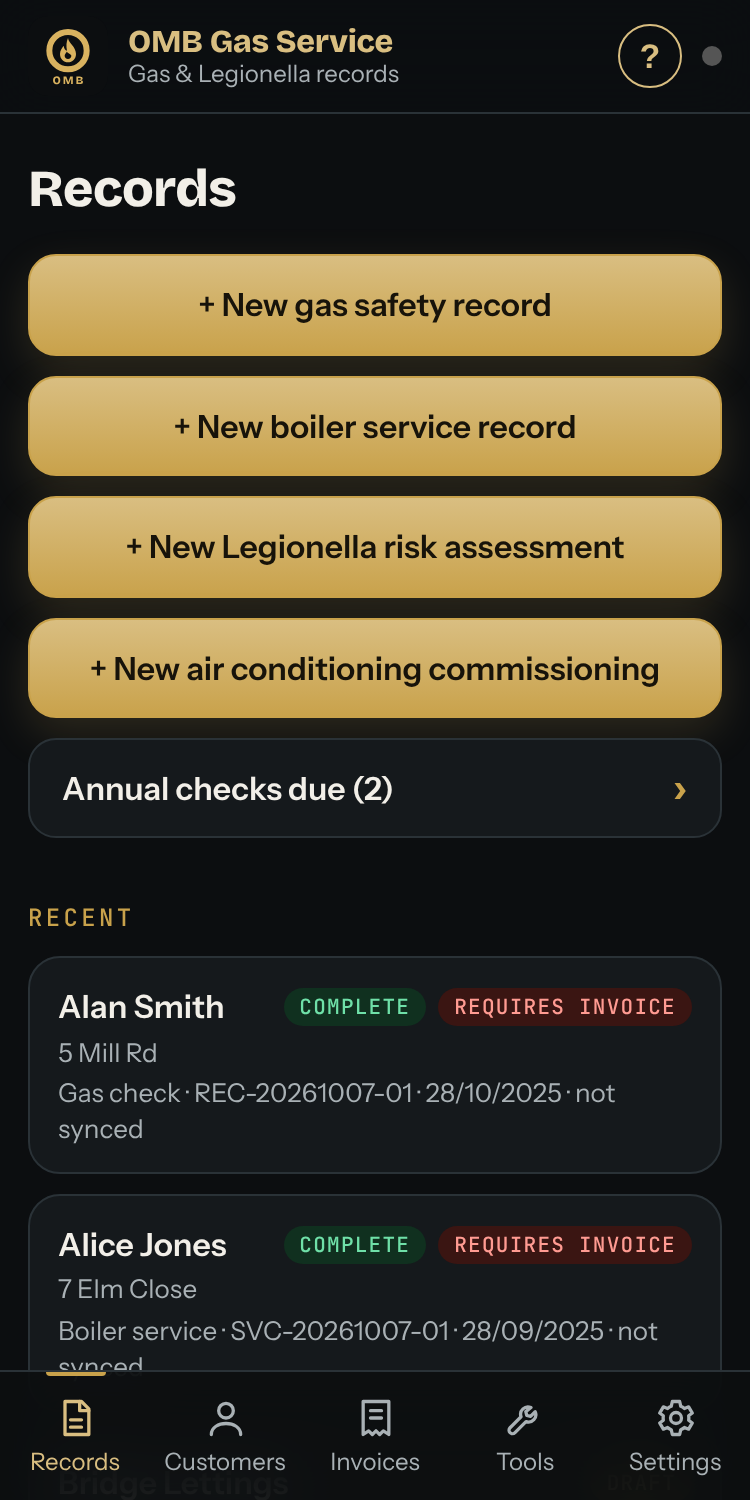
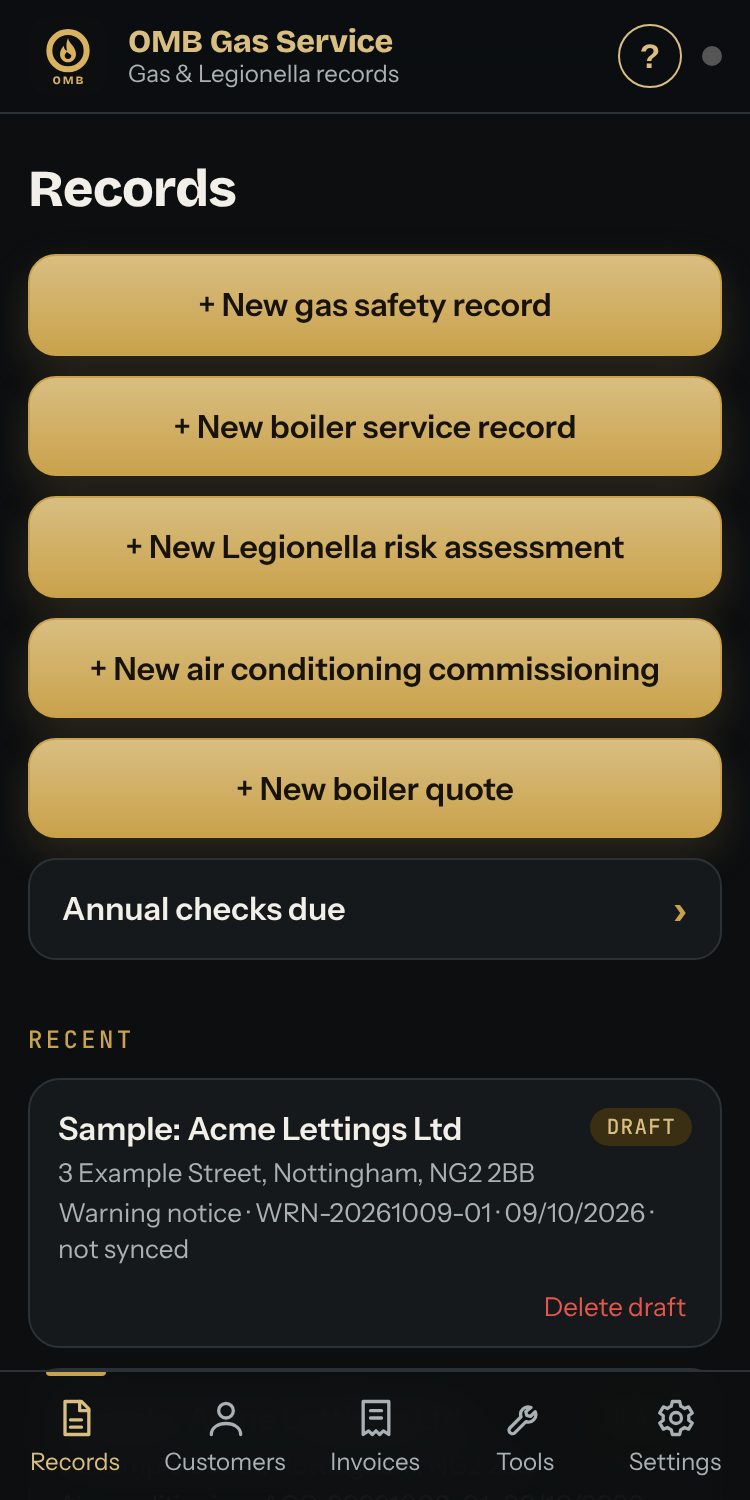
Site: boiler quotes, price list, quick heat loss, new screenshots and FAQ
Claude-Session: https://claude.ai/code/session_0178TbPUaNMd9U8tCb7q57PP

Changed region(s): [[0.0307, 0.4907, 0.9813, 0.92], [0.9507, 0.7053, 0.9813, 0.736]]

diff --git a/index.html b/index.html
@@ -4,10 +4,10 @@
 <meta charset="utf-8">
 <meta name="viewport" content="width=device-width, initial-scale=1">
 <title>OMB Gas Service – certificates and invoices for plumbers and heating engineers</title>
-<meta name="description" content="A no-nonsense app for plumbers and heating engineers. Gas safety records, boiler services, Legionella and air con forms, built-in calculators including the new IGEM/UP/1B tightness test, and simple invoices, with your own logo. £15 a month, 14-day free trial.">
+<meta name="description" content="A no-nonsense app for plumbers and heating engineers. Gas safety records, boiler services, Legionella and air con forms, boiler quotes, built-in calculators including the new IGEM/UP/1B tightness test, and simple invoices, with your own logo. £15 a month, 14-day free trial.">
 <meta property="og:type" content="website">
 <meta property="og:title" content="OMB Gas Service – certificates and invoices for plumbers and heating engineers">
-<meta property="og:description" content="Gas safety records, boiler services, Legionella and air con forms, built-in calculators including the new IGEM/UP/1B tightness test, and simple invoices, with your own logo. £15 a month, 14-day free trial.">
+<meta property="og:description" content="Gas safety records, boiler services, Legionella and air con forms, boiler quotes, built-in calculators including the new IGEM/UP/1B tightness test, and simple invoices, with your own logo. £15 a month, 14-day free trial.">
 <meta property="og:url" content="https://ombgas.com/">
 <link rel="canonical" href="https://ombgas.com/">
 <meta name="theme-color" content="#0c0e10">
@@ -39,7 +39,7 @@
     <div>
       <p class="pill"><i aria-hidden="true"></i>Works offline, in the van, with no signal</p>
       <h1>Certificates and invoices. <span class="gold">Nothing else in the way.</span></h1>
-      <p class="lead">A no-nonsense app for plumbers and heating engineers. It produces the right forms, does the sums, and sends simple invoices from your phone.</p>
+      <p class="lead">A no-nonsense app for plumbers and heating engineers. It produces the right forms, does the sums, quotes new boilers and sends simple invoices from your phone.</p>
       <div class="cta">
         <a class="btn" href="https://app.ombgas.com/">Start your 14-day free trial</a>
         <a class="btn alt" href="#forms">See what it does</a>
@@ -65,6 +65,7 @@
       <figure><a class="thumb" href="img/form-gas.png" aria-label="View the gas safety record full size"><img src="img/form-gas.png" width="1521" height="1075" alt="A gas safety record PDF"></a><figcaption>Gas safety record</figcaption></figure>
       <figure><a class="thumb" href="img/form-service.png" aria-label="View the boiler service record full size"><img src="img/form-service.png" width="1075" height="1521" alt="A boiler service record PDF"></a><figcaption>Boiler service record</figcaption></figure>
       <figure><a class="thumb" href="img/form-inv.png" aria-label="View the invoice full size"><img src="img/form-inv.png" width="1075" height="1064" alt="An invoice PDF"></a><figcaption>Invoice</figcaption></figure>
+      <figure><a class="thumb" href="img/form-quote.png" aria-label="View the boiler quote cover full size"><img src="img/form-quote.png" width="1075" height="1521" alt="The cover of a boiler quote proposal with a warranty seal"></a><figcaption>Boiler quote</figcaption></figure>
     </div>
     <p class="sheetnote">The business and customer shown are made up.</p>
   </div>
@@ -82,6 +83,7 @@
       <li class="spot"><span class="tick" aria-hidden="true"></span><div><b>Boiler service record</b><span>Service or repair of a gas boiler, with flue gas analyser readings.</span></div></li>
       <li class="spot"><span class="tick" aria-hidden="true"></span><div><b>Legionella risk assessment</b><span>Hot and cold water system checks.</span></div></li>
       <li class="spot"><span class="tick" aria-hidden="true"></span><div><b>Air conditioning commissioning</b><span>Install and commissioning report.</span></div></li>
+      <li class="spot"><span class="tick" aria-hidden="true"></span><div><b>Boiler quote</b><span>A proper proposal for the customer, with the warranty up front. Three pages.</span></div></li>
       <li class="spot"><span class="tick" aria-hidden="true"></span><div><b>Warning notice</b><span>Filled in on the spot when a defect needs one.</span></div></li>
     </ul>
   </div>
@@ -95,7 +97,7 @@
     <div class="toolgrid rv">
       <div class="tool spot"><h3>Gas rate</h3><p>Time the meter in metric or imperial. Start the timer before you have any readings, then get the gas rate and the gross and net heat input to check against the data plate.</p></div>
       <div class="tool spot"><h3>Gas pipe sizing</h3><p>Worked out from the published BS 6891 copper pipe capacity table. It also shows how many metres of the bigger pipe you need nearest the meter before the run can drop a size.</p></div>
-      <div class="tool spot"><h3>Heat loss and radiators</h3><p>Go room by room. Radiator sizes change with your flow and return temperatures, so the numbers match the system you are fitting.</p></div>
+      <div class="tool spot"><h3>Heat loss and radiators</h3><p>Go room by room with a quick form: room type, size, sheltered or exposed, and window type. You get a range from well insulated to poorly insulated, and radiator sizes that match the heating system you are fitting.</p></div>
       <div class="tool spot hot"><span class="tag">New for October 2026</span><h3>Tightness test volume</h3><p>Works out the installation volume and the pressure drop allowed under the IGEM/UP/1B Edition 4 rules that start on 1 October 2026.</p></div>
     </div>
     <ul class="chips rv">
@@ -126,6 +128,8 @@
     <h2 class="rv">Built for the van, not the office</h2>
     <div class="points rv">
       <div><h3>Annual checks due</h3><p>A list of gas safety checks, boiler services and Legionella assessments coming up or overdue. Tap Text, WhatsApp or Email and a ready-written reminder opens on your phone. Nothing is sent until you press send. Mark each one Booked in, Not needed or Stop.</p></div>
+      <div><h3>Boiler quotes that win the job</h3><p>Pick the boiler, flue and extras from your own price list and send a three-page proposal with your logo and the manufacturer warranty on the front. Choose large text for older customers. Mark it Accepted or Declined, and it reminds you to chase after two weeks.</p></div>
+      <div><h3>Your price list</h3><p>Boilers, flue kits, copper, fittings, thermostats and labour, each with your cost and mark-up. The sale price works itself out, and you can see your profit on every quote. Fill it in on your phone or load it from an Excel sheet. Customers never see your costs.</p></div>
       <div><h3>Simple invoices</h3><p>Make one from a finished job with your standard prices already in. Type a client name and pick them from your saved customers. Add VAT if you charge it, stamp it PAID, and print the bank details on it. Send the PDF, or mark a job as needing no invoice. At each VAT quarter, print a summary for your accountant.</p></div>
       <div><h3>Fault photos</h3><p>Take a photo of the faulty part on any form. It goes on its own page in the PDF with the fault details underneath, in the same style as the rest.</p></div>
       <div><h3>Your name on everything</h3><p>Add your logo and business details once. They appear in the app and on every PDF, so the paperwork looks like yours.</p></div>
@@ -144,6 +148,8 @@
     <h2 class="rv">What it looks like</h2>
     <div class="shots rv">
       <figure class="shot"><div class="phone"><img src="img/shot-1.png" width="750" height="1500" alt="The home screen with buttons for each form and Annual checks due"></div><figcaption>Pick the job. Start the forms.</figcaption></figure>
+      <figure class="shot"><div class="phone"><img src="img/shot-8.png" width="750" height="1500" alt="Finding a boiler on a quote by make and model, with the sale price from your price list"></div><figcaption>Quote a boiler in a minute.</figcaption></figure>
+      <figure class="shot"><div class="phone"><img src="img/shot-7.png" width="750" height="1500" alt="The price list with cost, mark-up and sale price for each boiler"></div><figcaption>Your costs, your mark-up, your price.</figcaption></figure>
       <figure class="shot"><div class="phone"><img src="img/shot-5.png" width="750" height="1500" alt="The Annual checks due list with Text, WhatsApp and Email buttons"></div><figcaption>See who is due. Send the reminder.</figcaption></figure>
       <figure class="shot"><div class="phone"><img src="img/shot-6.png" width="750" height="1500" alt="The Tools list: gas rate, pipe sizing, tightness test volume and heat loss"></div><figcaption>Every calculator in one place.</figcaption></figure>
       <figure class="shot"><div class="phone"><img src="img/shot-2.png" width="750" height="1500" alt="The gas rate calculator showing gas rate and gross and net heat input"></div><figcaption>Time the meter. Get the heat input.</figcaption></figure>
@@ -160,7 +166,7 @@
       <div>
         <ul>
           <li>14 days free to try it</li>
-          <li>Every form, calculator and invoice feature</li>
+          <li>Every form, quote, calculator and invoice feature</li>
           <li>Your own logo and details on all your PDFs</li>
           <li>Cancel any time from Settings</li>
         </ul>
@@ -175,7 +181,8 @@
     <p class="eyebrow rv">FAQ</p>
     <h2 class="rv">Questions</h2>
     <details><summary>What does OMB stand for?</summary><p>One Man Band. It is built for engineers working on their own, with no office staff to do the admin. You do the job, the paperwork and the invoice yourself, so the app keeps that part quick.</p></details>
-    <details><summary>Do I need a signal?</summary><p>No. The forms, calculators and invoices all work offline. Your work syncs to your account when you are back online.</p></details>
+    <details><summary>Can it do quotes?</summary><p>Yes. Pick the customer, then the boiler, flue and extras from your own price list. It produces a three-page proposal with your logo, the manufacturer warranty on the front, and a price your customer can accept by replying to your email. You can mark each quote Accepted or Declined, and it prompts you to chase any that have had no answer after two weeks.</p></details>
+    <details><summary>Do I need a signal?</summary><p>No. The forms, quotes, calculators and invoices all work offline. Your work syncs to your account when you are back online.</p></details>
     <details><summary>What phone do I need?</summary><p>Any iPhone or Android phone with a normal browser. Open the app, choose “Add to Home Screen”, and it opens full screen like any other app.</p></details>
     <details><summary>Can the app remind my customers when their check is due?</summary><p>Yes. Turn on automatic emails in Settings and customers with an email address are emailed about 8 weeks and 2 weeks before. You can switch it off for any customer, and anyone can unsubscribe from the email. The Annual checks due list shows who has been sent a reminder, and gives you ready-written texts and WhatsApps for the rest.</p></details>
     <details><summary>Can I use it on an iPad?</summary><p>Yes. It runs in the iPad’s browser the same way it does on a phone. The first time, the iPad needs an internet connection to load the app and sign in, either Wi-Fi or tethered to your phone’s hotspot. An iPad with its own SIM card works just like a phone. After that it works offline like it does on your phone.</p></details>

diff --git a/style.css b/style.css
@@ -62,14 +62,14 @@ section.s{padding:88px 0;border-top:1px solid var(--line)}
 
 /* paperwork thumbnails */
 .thumbhead{margin:0 0 6px}
-.thumbs{display:grid;grid-template-columns:repeat(3,1fr);gap:20px;align-items:start;margin-top:28px}
+.thumbs{display:grid;grid-template-columns:repeat(4,1fr);gap:20px;align-items:start;margin-top:28px}
 .thumbs figure{margin:0}
 .thumb{display:block;height:300px;border:1px solid var(--line2);background:#fff;border-radius:14px;overflow:hidden;cursor:zoom-in;transition:transform .2s,border-color .2s,box-shadow .2s}
 .thumb img{width:100%;height:100%;object-fit:cover;object-position:top left;display:block}
 .thumb:hover,.thumb:focus-visible{transform:translateY(-4px);border-color:var(--gold);box-shadow:0 18px 40px rgba(0,0,0,.5)}
 .thumbs figcaption{font-weight:600;font-size:15px;margin-top:12px}
 .sheetnote{font-size:14px;color:var(--mute);margin:18px 0 0}
-@media(max-width:700px){.thumbs{grid-template-columns:1fr 1fr 1fr;gap:10px}.thumb{height:170px;border-radius:10px}.thumbs figcaption{font-size:13px}}
+@media(max-width:700px){.thumbs{grid-template-columns:1fr 1fr;gap:14px}.thumb{height:230px;border-radius:10px}.thumbs figcaption{font-size:13px}}
 dialog#viewer{border:1px solid var(--line2);padding:0;background:#fff;max-width:min(1100px,96vw);width:96vw;max-height:92vh;overflow:auto;border-radius:14px}
 dialog#viewer::backdrop{background:rgba(5,6,7,.86)}
 dialog#viewer img{display:block;width:100%;height:auto}
@@ -100,7 +100,8 @@ dialog#viewer img{display:block;width:100%;height:auto}
 @media(max-width:620px){.points{column-count:1}}
 
 /* screens */
-.shots{display:grid;grid-template-columns:repeat(3,1fr);gap:40px 28px;margin-top:34px}
+.shots{display:grid;grid-template-columns:repeat(4,1fr);gap:40px 24px;margin-top:34px}
+@media(max-width:1000px){.shots{grid-template-columns:repeat(2,1fr)}}
 .shot{margin:0}
 .shot figcaption{font-weight:600;font-size:16px;margin:16px 4px 0}
 @media(max-width:760px){.shots{display:flex;overflow-x:auto;gap:18px;padding:4px 2px 18px;scroll-snap-type:x proximity;-webkit-overflow-scrolling:touch}.shot{flex:0 0 250px;scroll-snap-align:start}}
